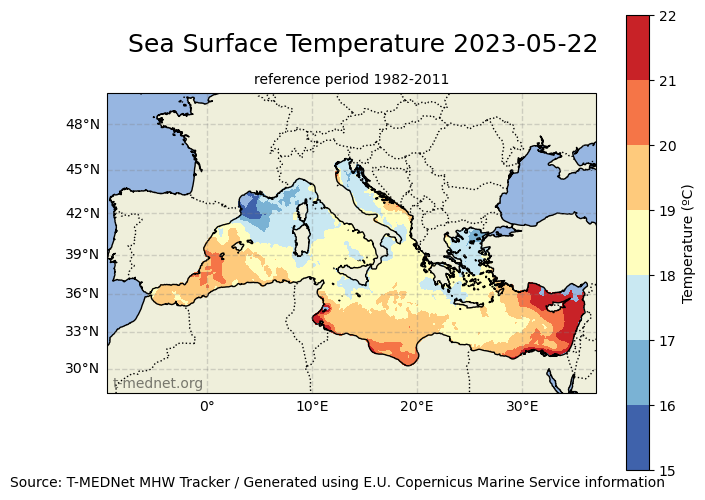
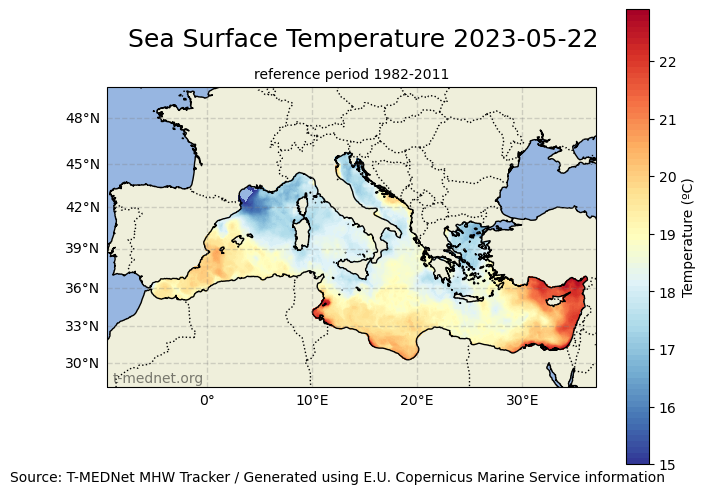
Updated.

diff --git a/tmednetGUI/mhw_mapper.py b/tmednetGUI/mhw_mapper.py
@@ -224,7 +224,7 @@ class MHWMapper:
             ticks = np.arange(math.trunc(float(np.nanquantile(np.ma.filled(ds, np.nan), 0.01))),
                                math.trunc(float(np.nanquantile(np.ma.filled(ds, np.nan), 0.99))) + 1, 1)
             levels = np.arange(math.trunc(float(np.nanquantile(np.ma.filled(ds, np.nan), 0.01))),
-                               math.trunc(float(np.nanquantile(np.ma.filled(ds, np.nan), 0.99))) + 1, 1)
+                               math.trunc(float(np.nanquantile(np.ma.filled(ds, np.nan), 0.99))) + 1, 0.1)
             cmap = 'RdYlBu_r'
             ylabel = 'Temperature (ºC)'
         elif mode == 'duration':

diff --git a/tmednetGUI/create_maps.py b/tmednetGUI/create_maps.py
@@ -32,6 +32,8 @@ def main(argv):
     df_map = mp.MHWMapper('/mnt/MHW/2023_MHW.nc', start_period=start_date, end_period=end_date)
     if mode == 'all':
         for i in MODES:
+            if i == 'temperature':
+                df_map = mp.MHWMapper('/mnt/MHW/lastTemp.nc', start_period=start_date, end_period=end_date)
             df_map.map_temperature(i)
     else:
         df_map.map_temperature(mode)
